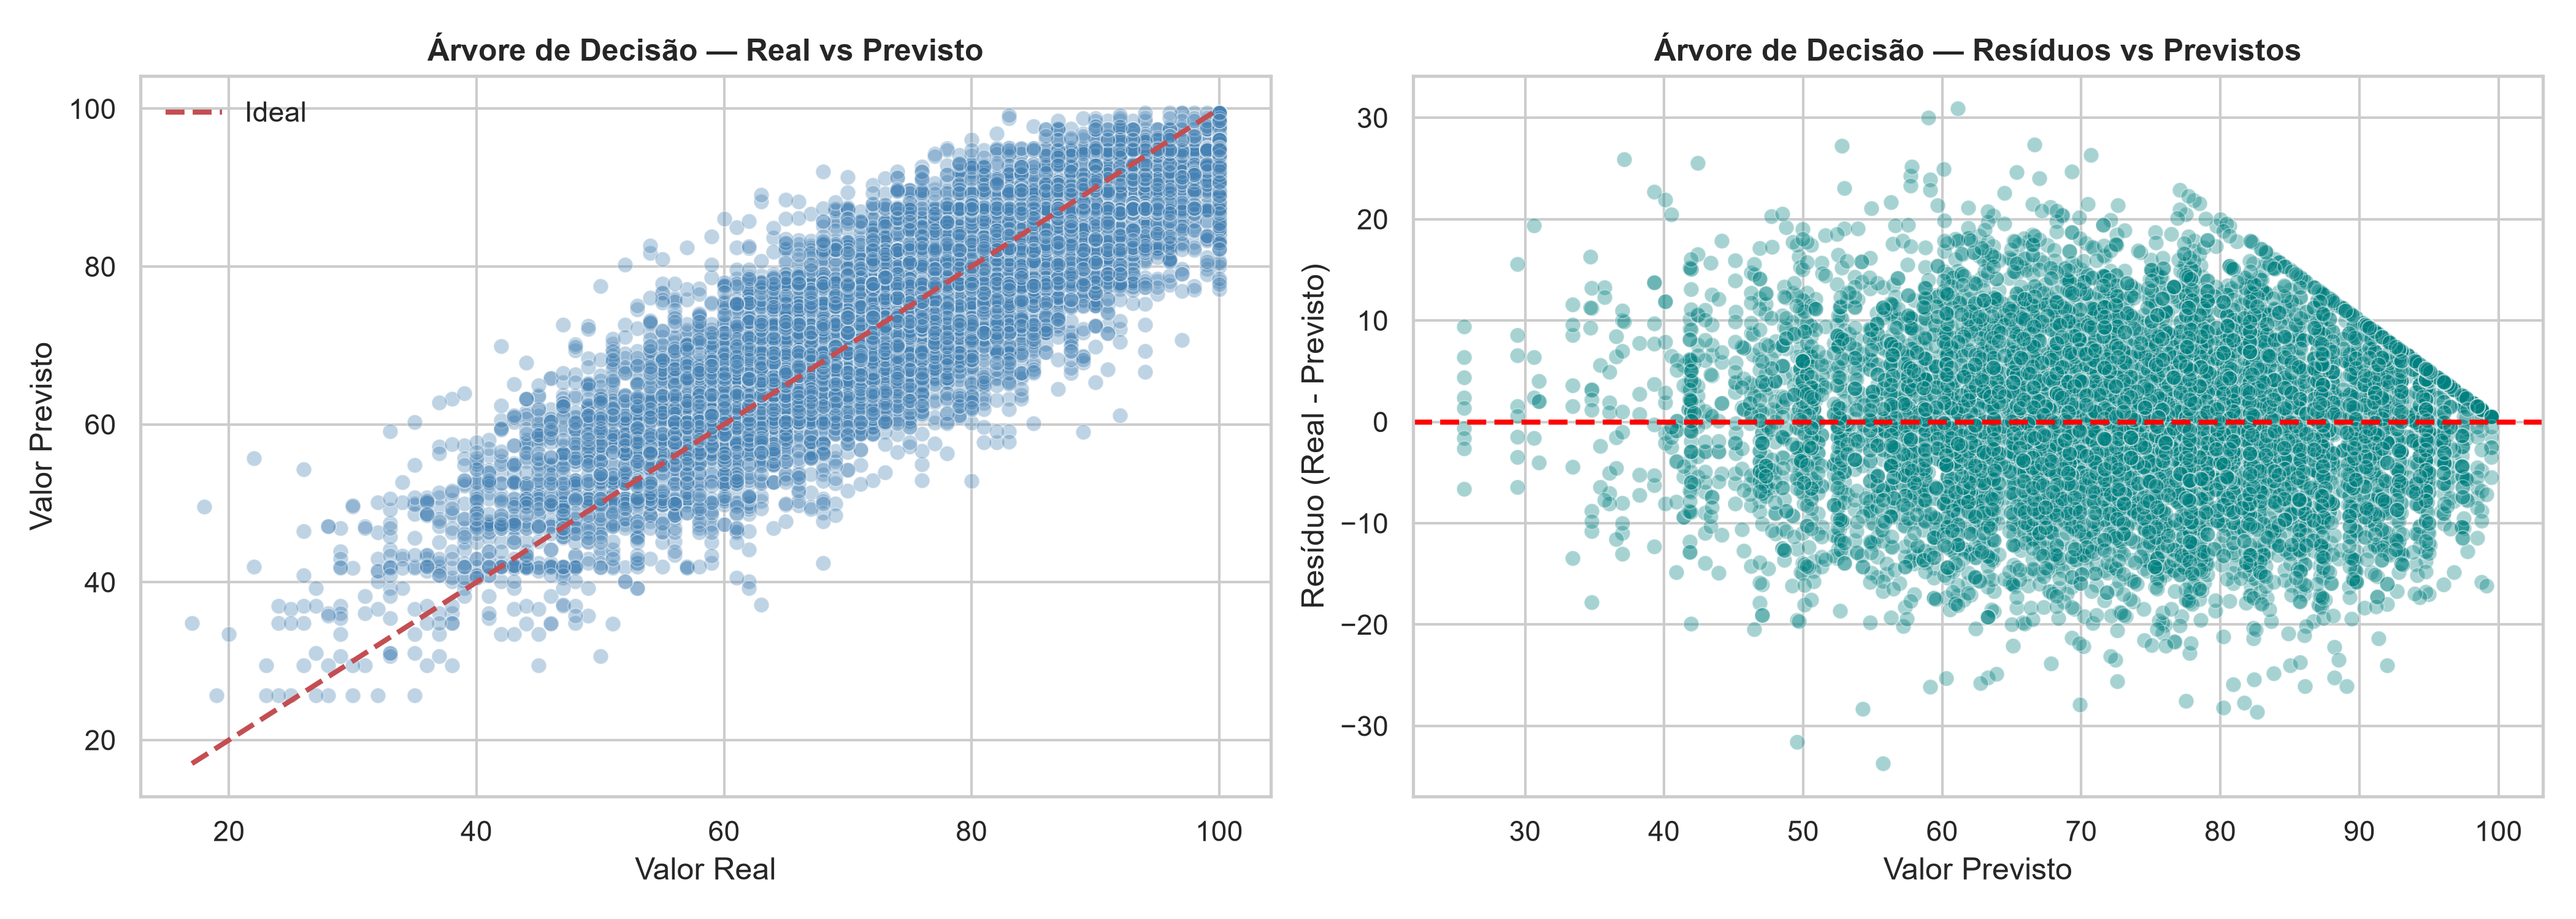
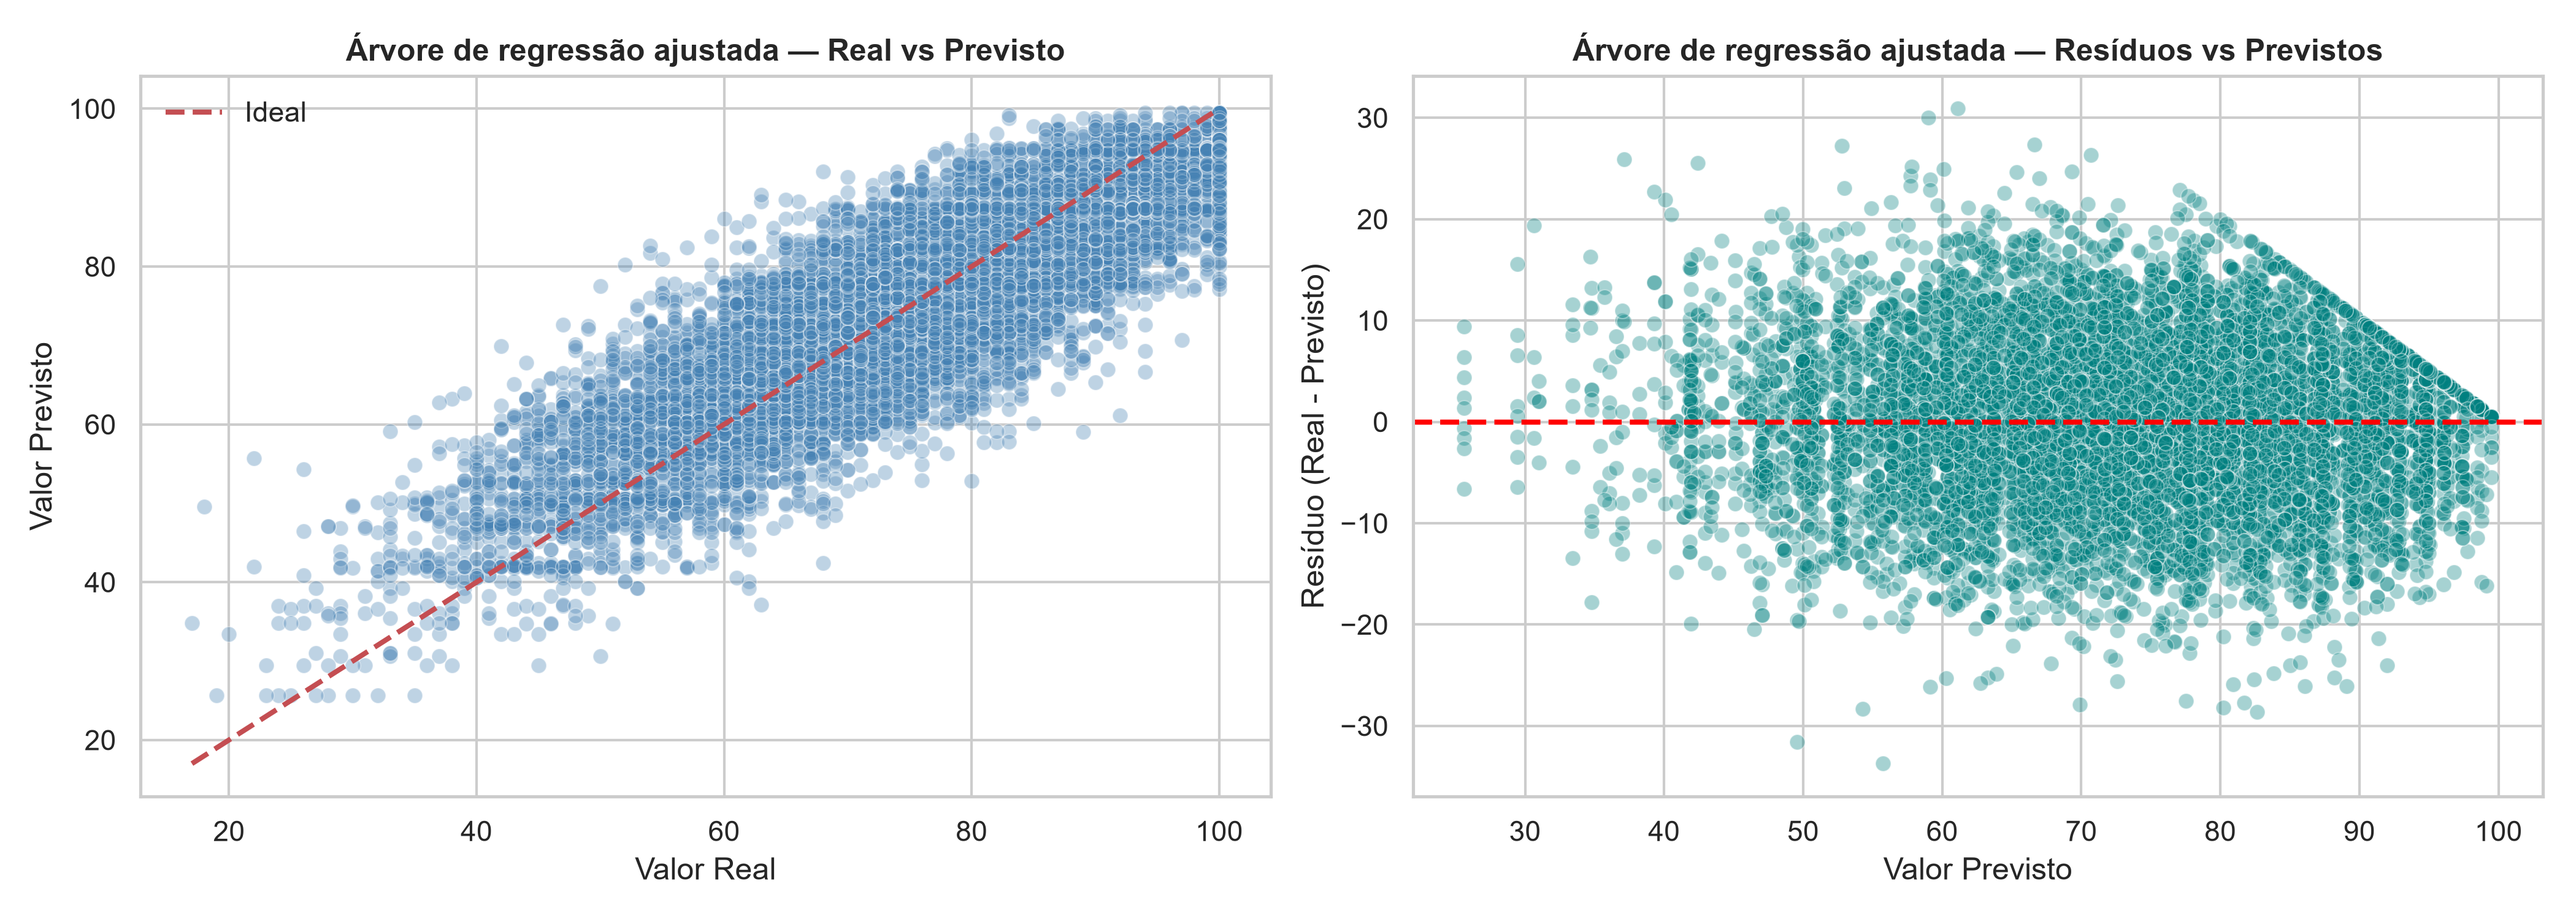
ajustes no codigo e comentários

Changed region(s): [[0.5926, 0.0307, 0.9357, 0.092], [0.1248, 0.0307, 0.4055, 0.0613]]

diff --git a/rules/regras_regressao.py b/rules/regras_regressao.py
@@ -6,8 +6,7 @@ pontuação aditiva: cada regra representa uma faixa clinicamente
 interpretável e contribui com pontos; o escore final é a soma à
 pontuação base, truncada em [0, 100].
 
-Os limiares vêm das diretrizes da ADA (glicemia e HbA1c) e de faixas
-clássicas de IMC e idade. Os pesos foram estimados por mínimos quadrados
+Os pesos foram estimados por mínimos quadrados
 (OLS) sobre os indicadores das faixas no conjunto de TREINO e arredondados
 para inteiros — o teste não participa da calibração.
 
@@ -19,7 +18,6 @@ pelas medianas do treino) para comparação no notebook 03.
 # Versão 2: motor de pontuação (19 regras)
 # ---------------------------------------------------------------------------
 REGRAS_REGRESSAO = [
-    # Glicemia de jejum — diretriz ADA
     {
         "id": "RG_G_BAIXA",
         "descricao": "Glicemia de jejum normal (< 100 mg/dL)",
@@ -27,7 +25,7 @@ REGRAS_REGRESSAO = [
             "Fasting_Blood_Sugar": {"operador": "<", "valor": 100},
         },
         "pontos": -10,
-        "tipo": "diretriz",
+        "tipo": "heuristica",
     },
     {
         "id": "RG_G_PRE",
@@ -39,7 +37,7 @@ REGRAS_REGRESSAO = [
             },
         },
         "pontos": 0,
-        "tipo": "diretriz",
+        "tipo": "heuristica",
     },
     {
         "id": "RG_G_ALTA",
@@ -48,9 +46,8 @@ REGRAS_REGRESSAO = [
             "Fasting_Blood_Sugar": {"operador": ">=", "valor": 126},
         },
         "pontos": 10,
-        "tipo": "diretriz",
+        "tipo": "heuristica",
     },
-    # HbA1c — diretriz ADA
     {
         "id": "RG_H_BAIXA",
         "descricao": "HbA1c normal (< 5,7%)",
@@ -58,7 +55,7 @@ REGRAS_REGRESSAO = [
             "HbA1c": {"operador": "<", "valor": 5.7},
         },
         "pontos": -9,
-        "tipo": "diretriz",
+        "tipo": "heuristica",
     },
     {
         "id": "RG_H_PRE",
@@ -70,7 +67,7 @@ REGRAS_REGRESSAO = [
             },
         },
         "pontos": 0,
-        "tipo": "diretriz",
+        "tipo": "heuristica",
     },
     {
         "id": "RG_H_ALTA",
@@ -79,7 +76,7 @@ REGRAS_REGRESSAO = [
             "HbA1c": {"operador": ">=", "valor": 6.5},
         },
         "pontos": 9,
-        "tipo": "diretriz",
+        "tipo": "heuristica",
     },
     # IMC — faixas clássicas de obesidade
     {
@@ -89,7 +86,7 @@ REGRAS_REGRESSAO = [
             "BMI": {"operador": "<", "valor": 25},
         },
         "pontos": -5,
-        "tipo": "relacao",
+        "tipo": "heuristica",
     },
     {
         "id": "RG_IMC_SOBREPESO",
@@ -101,7 +98,7 @@ REGRAS_REGRESSAO = [
             },
         },
         "pontos": -2,
-        "tipo": "relacao",
+        "tipo": "heuristica",
     },
     {
         "id": "RG_IMC_OBESO1",
@@ -113,7 +110,7 @@ REGRAS_REGRESSAO = [
             },
         },
         "pontos": 2,
-        "tipo": "relacao",
+        "tipo": "heuristica",
     },
     {
         "id": "RG_IMC_OBESO2",
@@ -122,7 +119,7 @@ REGRAS_REGRESSAO = [
             "BMI": {"operador": ">=", "valor": 35},
         },
         "pontos": 5,
-        "tipo": "relacao",
+        "tipo": "heuristica",
     },
     # Idade — faixas heurísticas
     {
@@ -175,7 +172,7 @@ REGRAS_REGRESSAO = [
             "Family_History_Diabetes": {"operador": "==", "valor": "Yes"},
         },
         "pontos": 10,
-        "tipo": "relacao",
+        "tipo": "heuristica",
     },
     {
         "id": "RG_HIPERTENSAO",
@@ -184,7 +181,7 @@ REGRAS_REGRESSAO = [
             "Hypertension": {"operador": "==", "valor": "Yes"},
         },
         "pontos": 6,
-        "tipo": "relacao",
+        "tipo": "heuristica",
     },
     {
         "id": "RG_DIETA_RUIM",

diff --git a/src/rules_io.py b/src/rules_io.py
@@ -141,11 +141,3 @@ def resumo_cronometro(df: pd.DataFrame) -> pd.DataFrame:
 
     return pd.DataFrame(linhas)
 
-
-def sessoes_pendentes(df: pd.DataFrame, minimo: int = 3) -> dict[str, int]:
-    """Quantas sessões ainda faltam por problema (requisito da atividade)."""
-    contagem = df.groupby("problema")["sessao"].nunique()
-    return {
-        problema: max(0, minimo - int(contagem.get(problema, 0)))
-        for problema in ("classificacao", "regressao")
-    }
